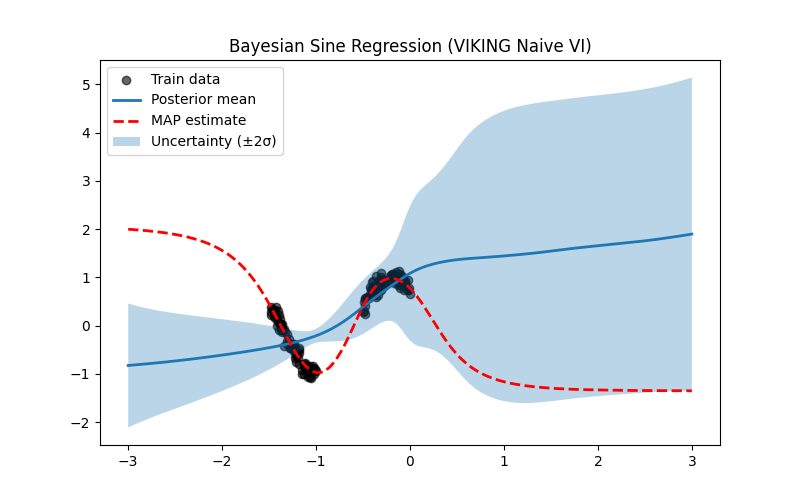
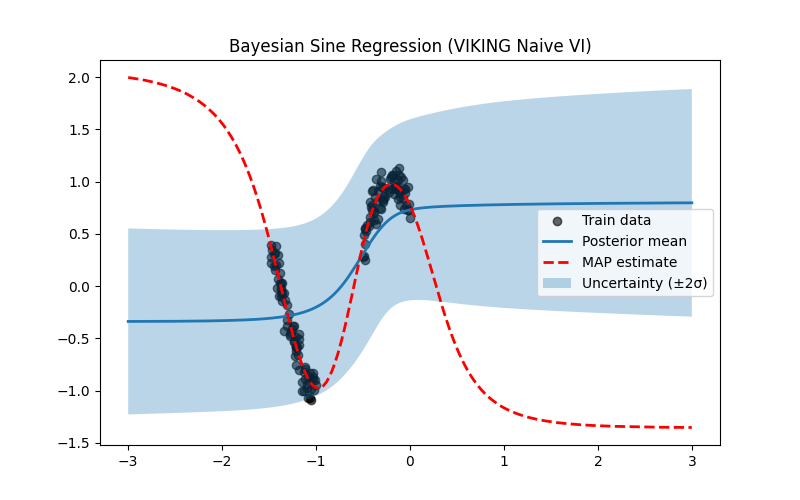
fixed unstasble KL term by clipping the init prior

diff --git a/experiments/VIKING_sine_curve.py b/experiments/VIKING_sine_curve.py
@@ -93,10 +93,9 @@ def KL_term(prior_vec, theta_hat, sigma_ker, sigma_im, eps_samples, eps_ker_samp
     )
 
 # KL Term from the paper for debugging purposes
-def KL_term_alpha(alpha_inv, theta_hat, sigma_ker, sigma_im, eps_samples, eps_ker_samples):
+def KL_term_alpha(theta_hat, sigma_ker, sigma_im, eps_samples, eps_ker_samples):
     sigma_ker_2 = jnp.exp(sigma_ker) ** 2
     sigma_im_2 = jnp.exp(sigma_im) ** 2
-    #alpha = 1.0 / alpha_inv
     alpha = 1.0 / sigma_ker_2
     num_samples, D = eps_samples.shape
 
@@ -137,7 +136,6 @@ def loss_fn(params_opt, model_fn_vec, UUt, x, y, sample_key, prior_vec):
     )
 
     """ kl = KL_term_alpha(
-        alpha_inv = prior_vec,
         theta_hat=params_opt["theta"],
         sigma_ker=params_opt["sigma_ker"],
         sigma_im=params_opt["sigma_im"],
@@ -165,16 +163,14 @@ def main():
     params_dict = checkpoint["params"]
     model = checkpoint["train_stats"]["model"]
     params_vec, unflatten, model_fn_vec = vectorize_nn(model.apply, params_dict)
-    prior_vec = jax.random.normal(prior_key, (params_vec.shape[0],))**2 # Vector of prior covariance diagonal values, sigmas squared
-    alpha_inv = 1.0 / 0.5
+    prior_vec = jnp.clip(jax.random.normal(prior_key, (params_vec.shape[0],)) ** 2, 0.1, 10.0) # Vector of prior covariance diagonal values, sigmas squared
 
-    sigma_kernel_key, sigma_image_key = jax.random.split(jax.random.PRNGKey(SEED))
     sigma_kernel = 0.3
     sigma_image = 0.6
     _, sample_key = jax.random.split(jax.random.PRNGKey(SEED))
 
     params_opt = {
-        #"prior_vec": prior_vec,
+        "prior_vec": prior_vec,
         "theta": params_vec,
         "sigma_ker": jnp.log(sigma_kernel),
         "sigma_im": jnp.log(sigma_image),

diff --git a/src/debug.py b/src/debug.py
@@ -1,0 +1,36 @@
+import jax
+import pickle
+from utils import vectorize_nn
+import matplotlib.pyplot as plt
+import jax.numpy as jnp
+
+N = 150
+SEED = 42
+
+prior_key, post_key = jax.random.split(jax.random.PRNGKey(SEED), num=2)
+
+# Generate prior variances
+prior_vec = jnp.clip(jax.random.normal(prior_key, (550,)) ** 2, 0.1, 10.0)
+
+# Get min and max
+prior_max = prior_vec.max()
+prior_min = prior_vec.min()
+
+# Plot histogram
+plt.figure(figsize=(8, 5))
+plt.hist(prior_vec, bins=50)
+plt.title("Prior Variances")
+plt.yscale("log")
+
+# Annotate max and min
+plt.text(prior_max, 1, f"Max: {prior_max:.2f}", ha="right", va="bottom", fontsize=10, color="red")
+plt.text(prior_min, 1, f"Min: {prior_min:.2e}", ha="left", va="bottom", fontsize=10, color="blue")
+
+plt.xlabel("Variance")
+plt.ylabel("Frequency (log scale)")
+plt.tight_layout()
+plt.show()
+
+# Also print values to console
+print("Max prior variance:", prior_max)
+print("Min prior variance:", prior_min)
